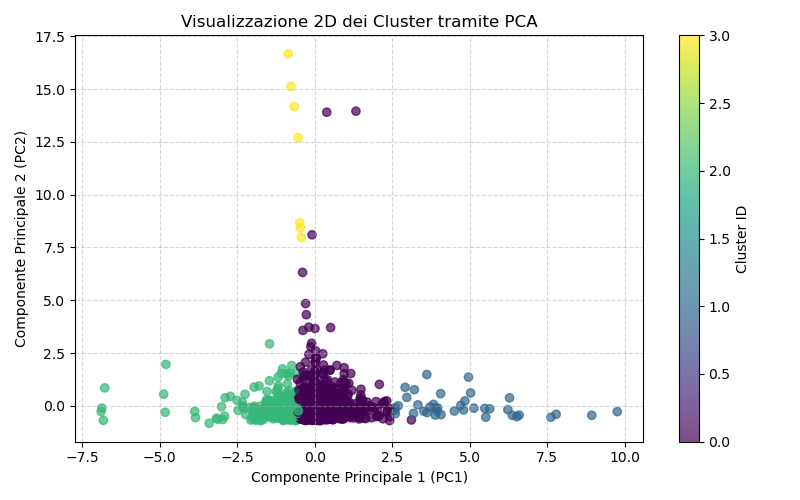
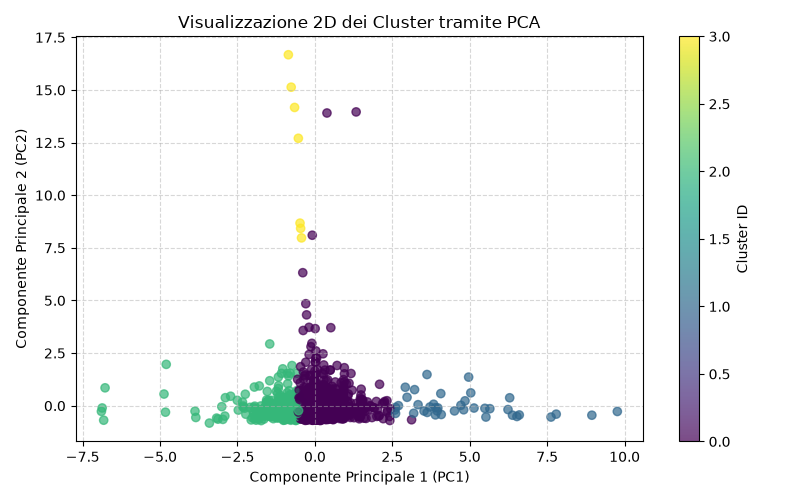
modifica menu e ml

diff --git a/menu.py b/menu.py
@@ -1,15 +1,70 @@
-# Importazione
+# Importazione dei moduli del progetto
 import Biblioteca_OOP as go
 import mlbiblioteca as ml
-import analisi as ad
+import analisi as ad 
 
+
+def menu_oggetti():
+    """Sottomenu dedicato alla Gestione Biblioteca con Programmazione ad Oggetti (OOP)."""
+    mentre_in_oop = True
+    while mentre_in_oop:
+        print("\n--- MENU: PROGRAMMAZIONE AD OGGETTI (OOP) ---")
+        print("1. Cerca posizione libro (Titolo, Scaffale e Riga)")
+        print("2. Prendi in prestito un libro")
+        print("3. Restituisci un libro prestato (con calcolo costo)")
+        print("4. Ricerca libri per Sezione")
+        print("5. Ricerca libri per Autore")
+        print("6. Ricerca libri per Genere")
+        print("7. Mostra Top 100 libri ordinati per Rating")
+        print("8. Calcola il Valore Totale dei libri in Biblioteca")
+        print("0. Torna al Menu Principale")
+        
+        scelta = input("\nSeleziona un'opzione: ").strip()
+        
+        if scelta == '1':
+            titolo = input("Inserisci il titolo del libro: ").strip()
+            go.Bib.ricerca_per_titolo_scaffale_riga(titolo)
+            
+        elif scelta == '2':
+            titolo = input("Inserisci il titolo del libro da prendere in prestito: ").strip()
+            go.Bib.prendi_in_prestito(titolo)
+            
+        elif scelta == '3':
+            titolo = input("Inserisci il titolo del libro da restituire: ").strip()
+            giorni = int(input("Inserisci il numero di giorni di prestito: "))
+            go.Bib.restituisci_libro_prestito(titolo, giorni)
+            
+        elif scelta == '4':
+            sezione = input("Inserisci la sezione (es. Fiction, Non-Fiction, Children, Young Adult, Reference, Rare Books): ").strip()
+            go.Bib.ricerca_per_sezione(sezione)
+            
+        elif scelta == '5':
+            autore = input("Inserisci il nome dell'autore: ").strip()
+            go.Bib.ricerca_per_autore(autore)
+            
+        elif scelta == '6':
+            genere = input("Inserisci il genere (es. Fantasy, History, Science...): ").strip()
+            go.Bib.ricerca_per_genere(genere)
+            
+        elif scelta == '7':
+            print("\n--- TOP 100 LIBRI PER RATING ---")
+            go.Bib.ordinamento_per_rating()
+            
+        elif scelta == '8':
+            print("\n--- VALORE TOTALE PATRIMONIALE ---")
+            go.Bib.valore_totale()
+            
+        elif scelta == '0':
+            mentre_in_oop = False
+        else:
+            print("Opzione non valida. Scegli un numero da 0 a 8.")
 
 
 def menu_analisi_dati():
     """Sottomenu dedicato all'Analisi dei Dati."""
     mentre_in_analisi = True
     while mentre_in_analisi:
-        print("\n--- MENU: ANALISI DEI DATI---")
+        print("\n--- MENU: ANALISI DEI DATI ---")
         print("1. Esplorazione iniziale (shape, info, describe, head)")
         print("2. Pulizia del dataset (uniformazione sezioni, duplicati, nulli)")
         print("3. Grafico a Torta: Top 10 generi più presi in prestito")
@@ -70,7 +125,6 @@ def menu_machine_learning():
             rating = float(input("Rating (es. 4.2): "))
             voti = float(input("Numero di voti/recensioni (es. 120): "))
             
-            # Addestra il modello al momento e calcola subito la stima
             modello = ml.addestra_modello_predizione(ad.df)
             stima = ml.prevedi_nuovo_libro(modello, anno, prezzo, pagine, rating, voti)
             print(f"\n-> Risultato: Il libro otterrà circa {stima} prestiti totali.")
@@ -84,6 +138,7 @@ def menu_machine_learning():
         else:
             print("Opzione non valida. Scegli un numero da 0 a 4.")
 
+
 def menu_principale():
     """Menu principale che collega tutte le sezioni."""
     attivo = True
@@ -91,7 +146,7 @@ def menu_principale():
         print("\n========================================")
         print("    SISTEMA DI GESTIONE & ANALISI LIBRI   ")
         print("========================================")
-        print("1. Modulo 1: Creazione ad Oggetti")
+        print("1. Modulo 1: Programmazione ad Oggetti (OOP)")
         print("2. Modulo 2: Analisi Dati & Visualizzazione")
         print("3. Modulo 3: Machine Learning")
         print("0. Uscita")
@@ -113,4 +168,4 @@ def menu_principale():
 
 
 # Avvio del menu
-menu_principale() 
+menu_principale()

diff --git a/mlbiblioteca.py b/mlbiblioteca.py
@@ -211,20 +211,3 @@ def raccomanda_libri(df, titolo_ricerca):
             print(f"- '{titolo_rec}' di {autore_rec} (Affinità: {round(score * 100, 1)}%)")
 
 
-# BLOCCO DI TEST / ESECUZIONE DI PROVA
-# Leggiamo il dataset CSV iniziale tramite pandas
-df_libri = pd.read_csv("books.csv")
-print(f"Dataset caricato con successo! {len(df_libri)} libri trovati.")
-
-# 1. Avviamo la funzione di Clustering K-Means e visualizzazione PCA
-df_risultato, modello_kmeans, scaler = esegui_clustering(df_libri, n_clusters=4)
-
-# 2. Addestriamo i modelli di regressione e otteniamo il modello lineare
-modello_predittivo = addestra_modello_predizione(df_libri)
-
-# 3. Facciamo un test stimando i prestiti per un libro inventato (anno 2021, 18.5€, 350 pag, 4.2 rating, 120 voti)
-stima = prevedi_nuovo_libro(modello_predittivo, anno=2021, prezzo=18.5, pagine=350, rating=4.2, num_voti=120)
-print(f"\nStima prestiti per il nuovo libro: {stima}")
-
-# 4. Facciamo un test chiedendo al sistema di raccomandazione 3 libri simili a "Harry"
-raccomanda_libri(df_libri, titolo_ricerca="Harry")
